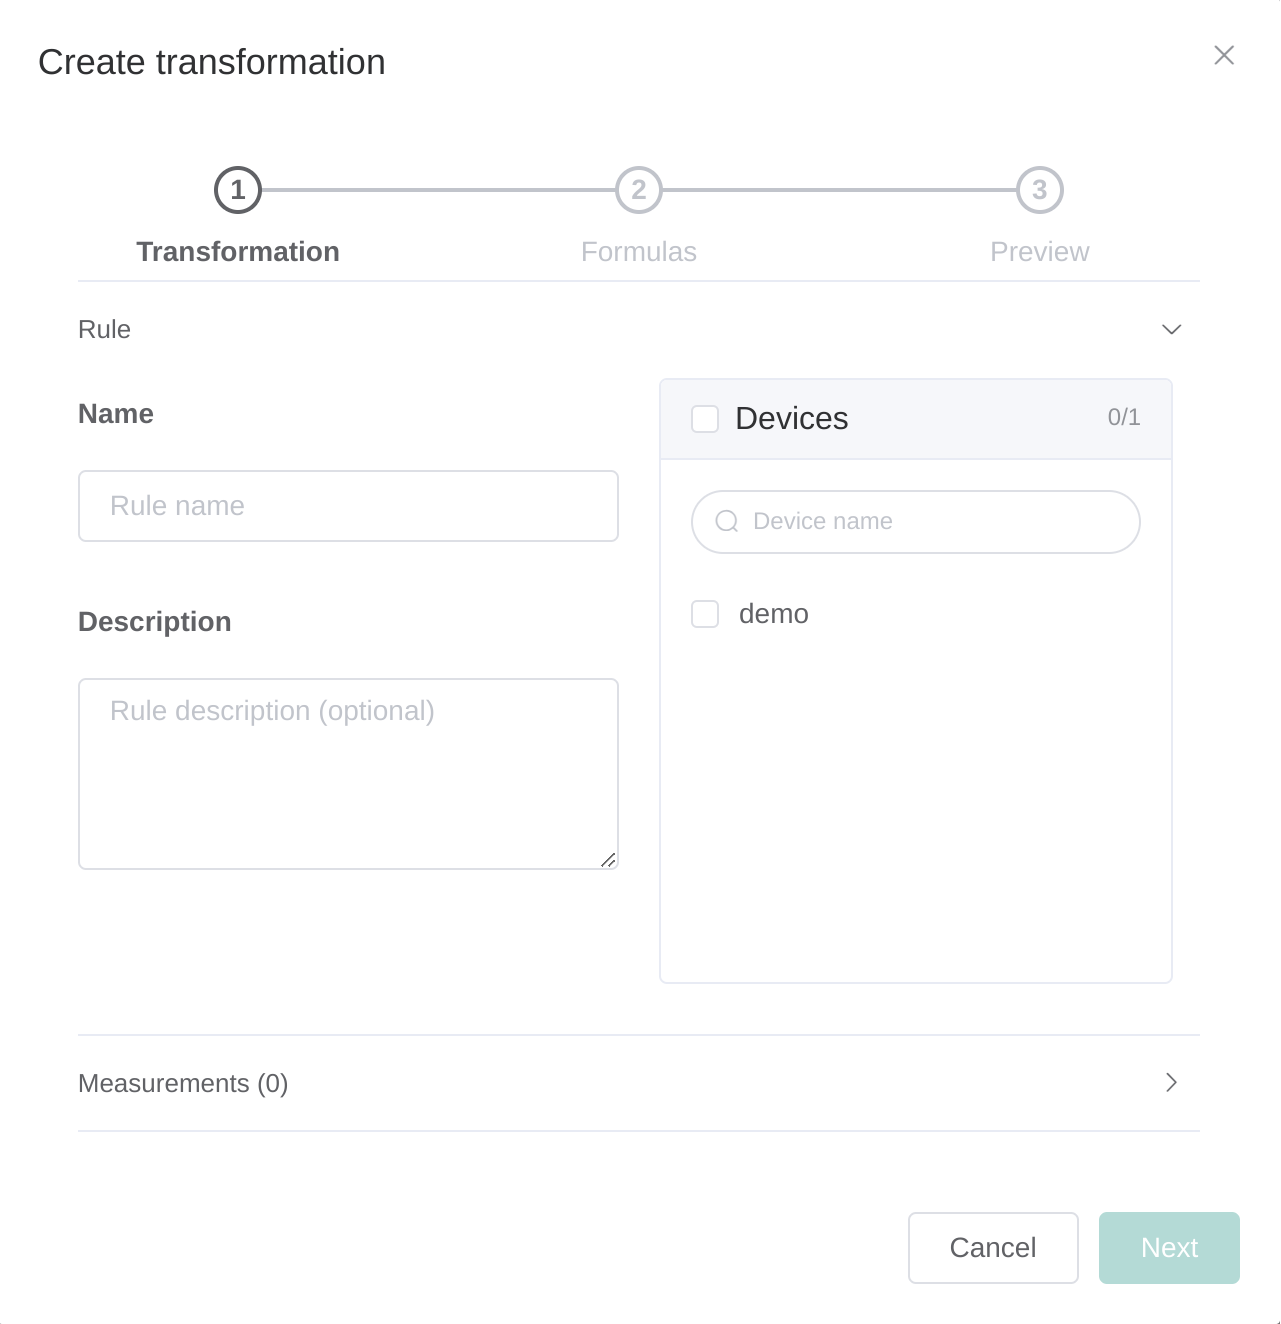
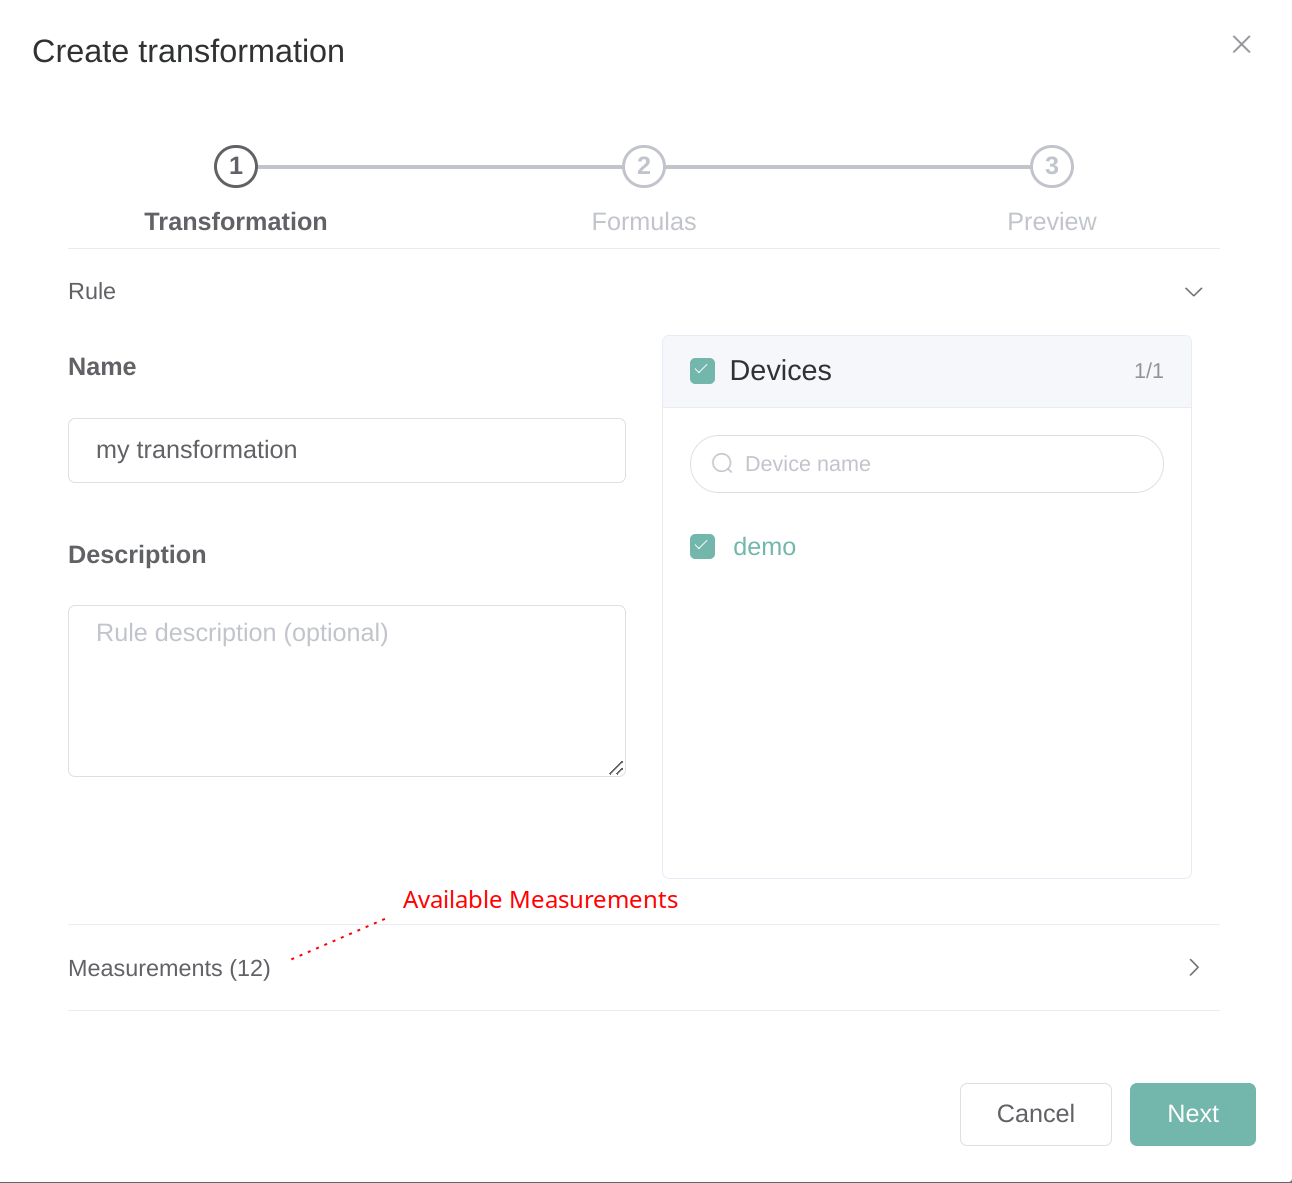
CNSL-362 Enriched transformations documentation

diff --git a/content/cloudplatform/ui/transformations/_index.en.md b/content/cloudplatform/ui/transformations/_index.en.md
@@ -28,14 +28,16 @@ The transformations dialog appears, containing three steps:
 - Step 2 defines the formulas that will be executed on every incoming message for the previously selected device(s)
 - Step 3 shows a preview of the defined rule applied on the last received device message
 
+#### Step 1 - Transformation Rule
+
 ![Transformation Dialog Step 1](/images/transformations/transformation_dialog_step_1.png?width=30pc)
 
 Each rule has the following properties:
 
-1. A **name** (required)
-2. A **description** (optional)
-3. The **device(s)** for which the rule will be applied (required)
-4. The **formulas** that will be applied on each device message (required)
+- A **name** (required)
+- A **description** (optional)
+- The **device(s)** for which the rule will be applied (required)
+- The **formulas** that will be applied on each device message (required)
 
 While selecting devices, the available measurements are fetched and listed to the dialog (click on the "Measurements" accordion item). If more than one device is selected, only the common measurements are taken into account. If the devices do not have common measurements, you will not be able to proceed to the next step.
 
@@ -44,3 +46,67 @@ To create a rule for a device, the device must have previously sent at least one
 {{% /notice %}}
 
 After providing a name, a description (optional) and one or more devices, click next to go to the second step to define the formulas.
+
+#### Step 2 - Transformation Formulas
+
+![Transformation Dialog Step 2](/images/transformations/transformation_dialog_step_2.png?width=30pc)
+
+Step 2 shows a list of the formulas that will be applied to the previously selected device messages. To add a new formula to the rule, click "Add".
+
+![Formula Dialog](/images/transformations/formula_dialog.png?width=30pc)
+
+A formula has the following properties:
+
+- A **name** (required)
+- A **description** (optional)
+- One or more first-level **measurements** that will be used in the formula expression (required)
+- The formula **expression** (required)
+- The **result name** (required)
+- The **result unit** (optional)
+
+##### Expression
+
+The formula expression is a mathematical expression that follows the JavaScript syntax. To build an expression, use the [JavaScript Arithmetic Operators](https://developer.mozilla.org/en-US/docs/Web/JavaScript/Guide/Expressions_and_operators#arithmetic_operators) and to apply standard mathematical functions, use the [JavaScript Math functions](https://developer.mozilla.org/en-US/docs/Web/JavaScript/Reference/Global_Objects/Math).
+
+{{% notice note %}}
+For simplicity, you can skip using the "Math." prefix in the expression. For example, to calculate the absolute value of a measurement (that has the symbol x), use abs(x) instead of Math.abs(x).
+{{% /notice %}}
+
+In the expression, the selected measurements are mapped to a symbol. If one measurement is selected, it is mapped to "x", if a second measurement is selected, it is mapped to "y" and so on. The measurement to symbol mapping is shown below the measurement selection and above the expression.
+
+The expression needs to be evaluated before adding the formula to the transformation rule. To evaluate the expression, click on the button next to the expression input field. An expression is valid when:
+
+1. The expression syntax is correct
+2. All variable symbols are used in the expression
+
+The result of the expression is stored with the user-defined result name and unit.
+
+After clicking "Add", the formula is added to the transformation rule. A rule can contain more than one formula. Once finished, click "Next" to go to the preview step.
+
+#### Step 3 - Preview
+
+Step 3 shows a preview of the transformation rule application on the last message of the device. Each formula result is highlighted and shown at the bottom of the table.
+
+![Transformation Dialog Step 3](/images/transformations/transformation_dialog_step_3.png?width=30pc)
+
+If more devices are selected for the rule, you can change the device selection from the drop down menu above the preview table.
+
+To create the transformation, click "Create". The "Transformations" page will be refreshed with the new information.
+
+### Transformations List
+
+To see all the project's transformations, select "Transformations" in the Sidebar Menu. The actions column allows for transformation update/deletion.
+
+{{% notice note %}}
+Only project administrators can delete a transformation. Project administrators and editors can update a transformation. The "Actions" column is not visible to project viewers.
+{{% /notice %}}
+
+![Transformations List](/images/transformations/transformations_list.png)
+
+### Transformation Info
+
+To see transformation information, click on a transformation in the transformations list view. The transformation info shows general information on the rule, formula information and formula execution status information per formula and device. In case of errors, a helpful error log is shown in each case. Convenient filters are also provided to filter for a particular formula or device.
+
+![Transformation Info](/images/transformations/transformation_info.png)
+
+From this page, users can update or delete a transformation, provided that they have the appropriate project access rights.
